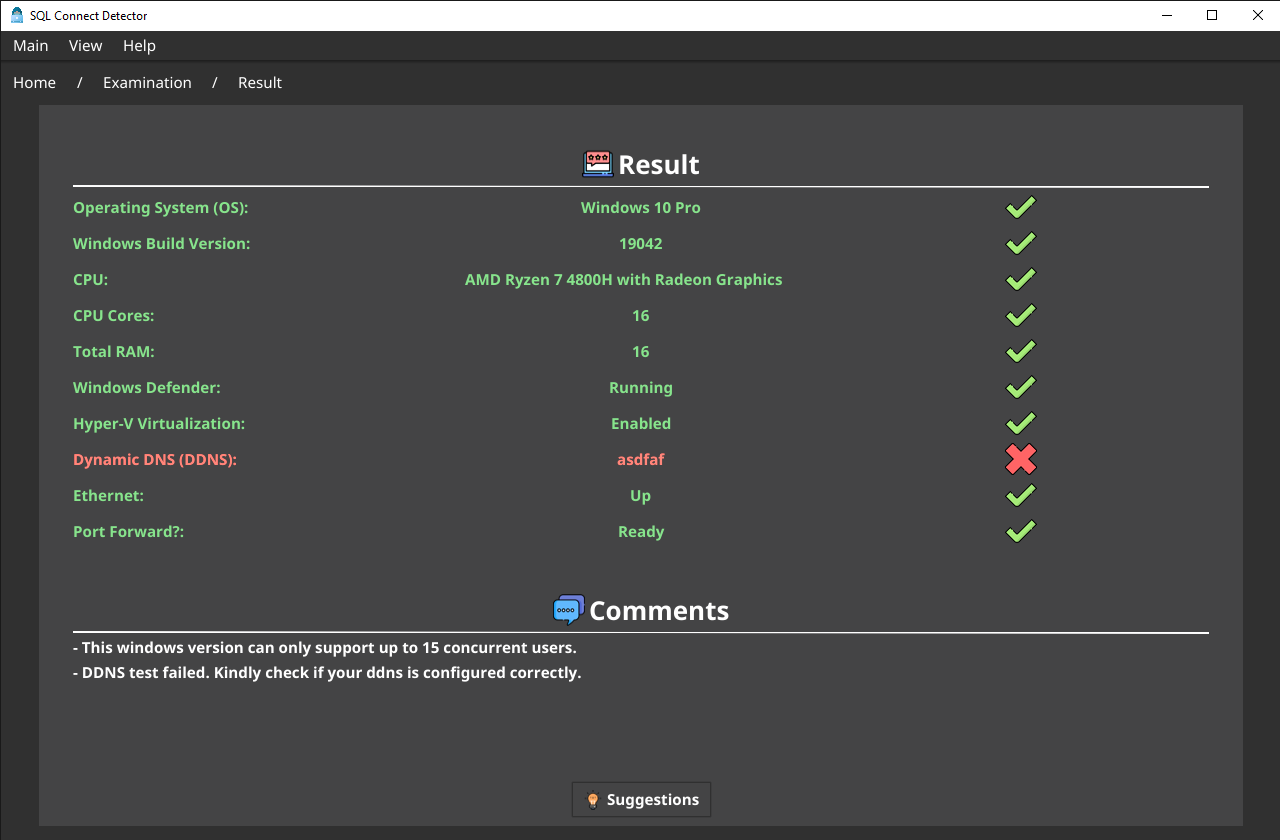
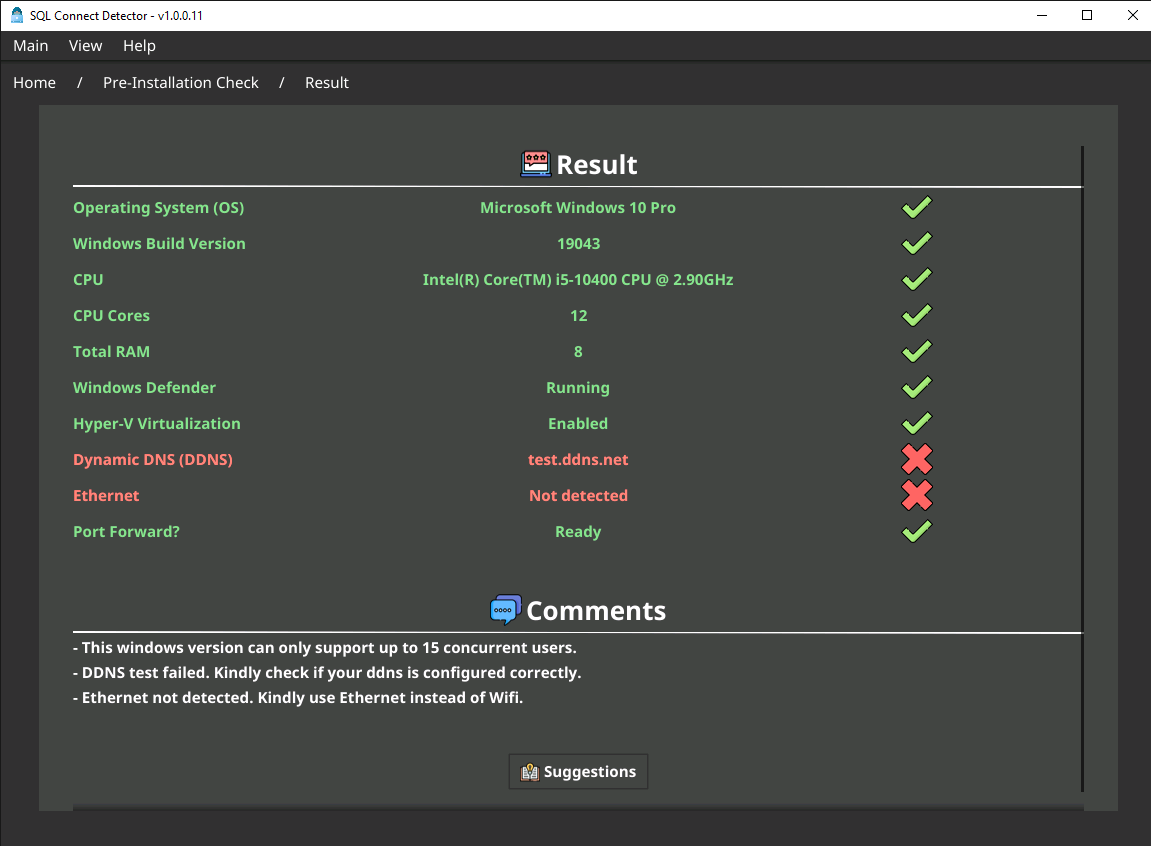
[General] Update SQL Connect Detector
- Add new link (v1.0.0.11)
- Update new images

diff --git a/docs/private-cloud/requirements/sql-connect-detector.md b/docs/private-cloud/requirements/sql-connect-detector.md
@@ -5,16 +5,16 @@ sidebar_position: 4
 # SQL Connect Detector
 
 SQL Connect Detector is an application for verifying/troubleshooting private cloud.
-- If you want to check if your server is **eligible** for setup, you may click on **Examination**.
+- If you want to check if your server is **eligible** for setup, you may click on **Pre-Installation Check**.
 - If you have a ready private cloud server, and **have issue** connecting to your server, you may click on **Troubleshooting** to run analysis on your system.
 
 ## Download
 
-[SQL Connect Detector (SQL Drive)](https://drive.sql.com.my/s/tCqZWEo5wgCCZwX)
+[SQL Connect Detector (SQL Drive)](https://drive.sql.com.my/s/EzwKSRfQi4pGfwx)
 
 ![SQL Connect Detector 1](../../../static/img/private-cloud/sql-connect-detector-1.png)
 
-## Examination
+## Pre-Installation Check
 
 - You may enter your **dynamic DNS (DDNS)** / **fix Public IP Address** here.
 
